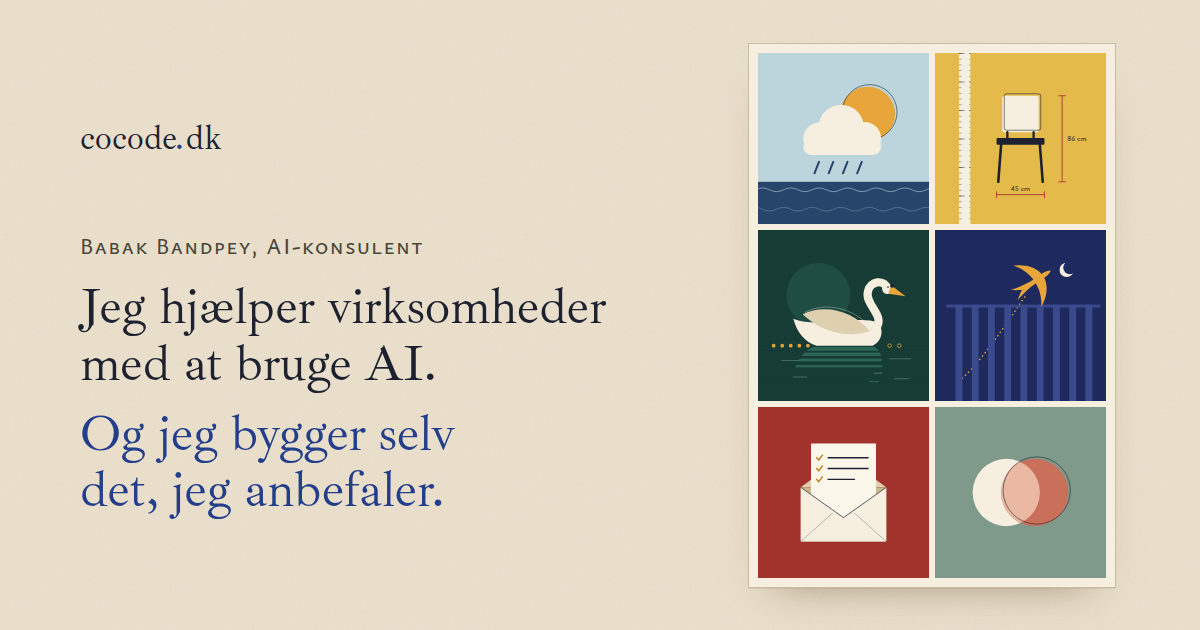
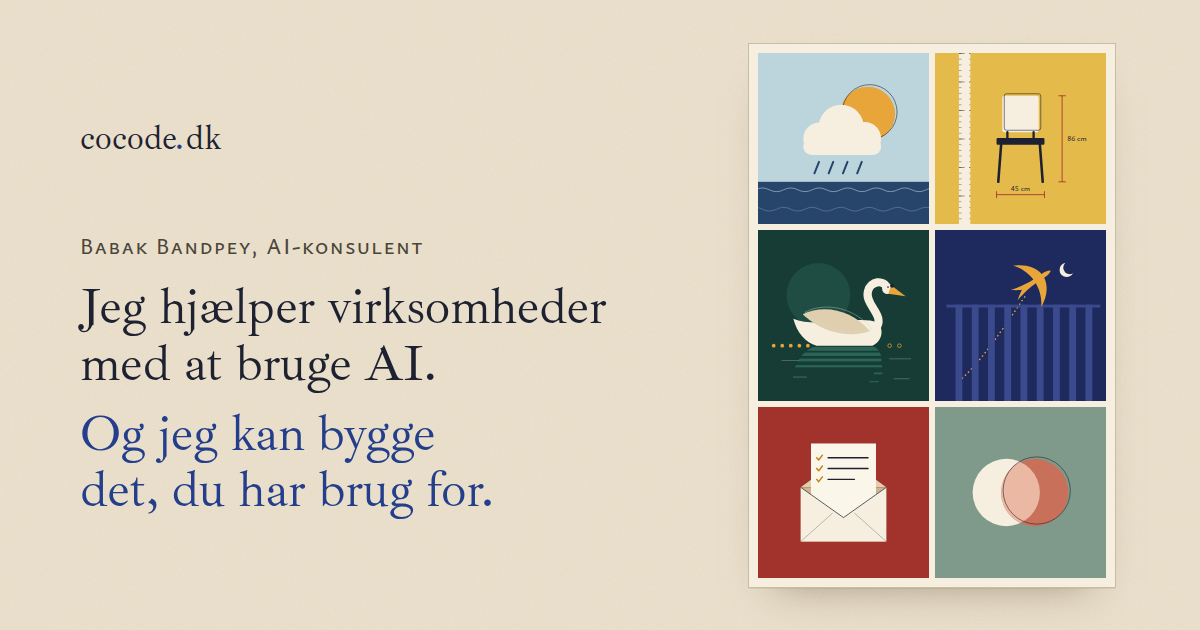
fix: "Og jeg kan bygge det, du har brug for" on the homepage (#85)
The second line of the headline now says what a client gets, as the English profile does. The
meta description, the link preview and the share picture say the same.

Changed region(s): [[0.1233, 0.6635, 0.4008, 0.8143]]

diff --git a/templates/template.html b/templates/template.html
@@ -4,7 +4,7 @@
 <meta charset="utf-8">
 <meta name="viewport" content="width=device-width, initial-scale=1">
 <title>Babak Bandpey, AI-konsulent. cocode.dk</title>
-<meta name="description" content="Jeg hjælper virksomheder med at bruge AI, og jeg bygger selv det, jeg anbefaler. Se apps, spil, hjemmesider og AI-værktøjer fra cocode.dk.">
+<meta name="description" content="Jeg hjælper virksomheder med at bruge AI, og jeg kan bygge det, du har brug for. Se apps, spil, hjemmesider og AI-værktøjer fra cocode.dk.">
 <meta name="robots" content="index, follow">
 <link rel="canonical" href="https://cocode.dk/">
 
@@ -13,7 +13,7 @@
 <meta property="og:site_name" content="cocode.dk">
 <meta property="og:url" content="https://cocode.dk/">
 <meta property="og:title" content="Babak Bandpey, AI-konsulent">
-<meta property="og:description" content="Jeg hjælper virksomheder med at bruge AI, og jeg bygger selv det, jeg anbefaler.">
+<meta property="og:description" content="Jeg hjælper virksomheder med at bruge AI, og jeg kan bygge det, du har brug for.">
 <meta property="og:image" content="https://cocode.dk/images/share-atelier-1200x630.png">
 <meta property="og:image:alt" content="Babak Bandpey, AI-konsulent. cocode.dk">
 <meta property="og:image:width" content="1200">

diff --git a/templates/partials/hero.html b/templates/partials/hero.html
@@ -2,7 +2,7 @@
     <div class="wrap grid12">
       <div class="hero__text">
         <p class="sc">Babak Bandpey, AI-konsulent</p>
-        <h1 id="titel"><span>Jeg hjælper virksomheder med at bruge AI.</span> <span>Og jeg bygger selv det, jeg anbefaler.</span></h1>
+        <h1 id="titel"><span>Jeg hjælper virksomheder med at bruge AI.</span> <span>Og jeg kan bygge det, du har brug for.</span></h1>
         <p class="hero__intro">Her på siden ser du det, jeg har lavet: apps, spil, hjemmesider og <span class="nb">AI-værktøjer</span>. Kig dig omkring. Og sig til, hvis du vil have noget lignende.</p>
         <div class="hero__actions">
           <a class="btn" href="#kontakt">Lad os tale</a>

diff --git a/tests/webmcp.test.js b/tests/webmcp.test.js
@@ -82,7 +82,7 @@ describe('WebMCP', () => {
   test('should introduce Babak in the page\'s own words', async () => {
     const reg = registry(); put(document, reg);
     const tool = await start(reg);
-    expect((await tool('get_services').execute({})).who).toBe('Babak Bandpey, AI-konsulent. Jeg hjælper virksomheder med at bruge AI. Og jeg bygger selv det, jeg anbefaler.');
+    expect((await tool('get_services').execute({})).who).toBe('Babak Bandpey, AI-konsulent. Jeg hjælper virksomheder med at bruge AI. Og jeg kan bygge det, du har brug for.');
   });
 
   test('should answer get_about from the page', async () => {

diff --git a/templates/og-card.html b/templates/og-card.html
@@ -31,7 +31,7 @@ html,body{width:1200px;height:630px;overflow:hidden}
   <div>
     <span class="wordmark">cocode<i>.</i>dk</span>
     <p class="sc">Babak Bandpey, AI-konsulent</p>
-    <h1><span>Jeg hjælper virksomheder med at bruge AI.</span> <span>Og jeg bygger selv det, jeg anbefaler.</span></h1>
+    <h1><span>Jeg hjælper virksomheder med at bruge AI.</span> <span>Og jeg kan bygge det, du har brug for.</span></h1>
   </div>
   <div class="mount specimen__grid">
     <svg viewBox="0 0 600 600"><use href="#art-weather"/></svg>

diff --git a/tests/page-facts.test.js b/tests/page-facts.test.js
@@ -43,7 +43,7 @@ describe('what the page says about itself', () => {
   });
 
   test('should introduce Babak the way the page does', () => {
-    expect(readIntro()).toBe('Babak Bandpey, AI-konsulent. Jeg hjælper virksomheder med at bruge AI. Og jeg bygger selv det, jeg anbefaler.');
+    expect(readIntro()).toBe('Babak Bandpey, AI-konsulent. Jeg hjælper virksomheder med at bruge AI. Og jeg kan bygge det, du har brug for.');
   });
 
   test('should read the letter in Om mig, paragraph by paragraph', () => {
